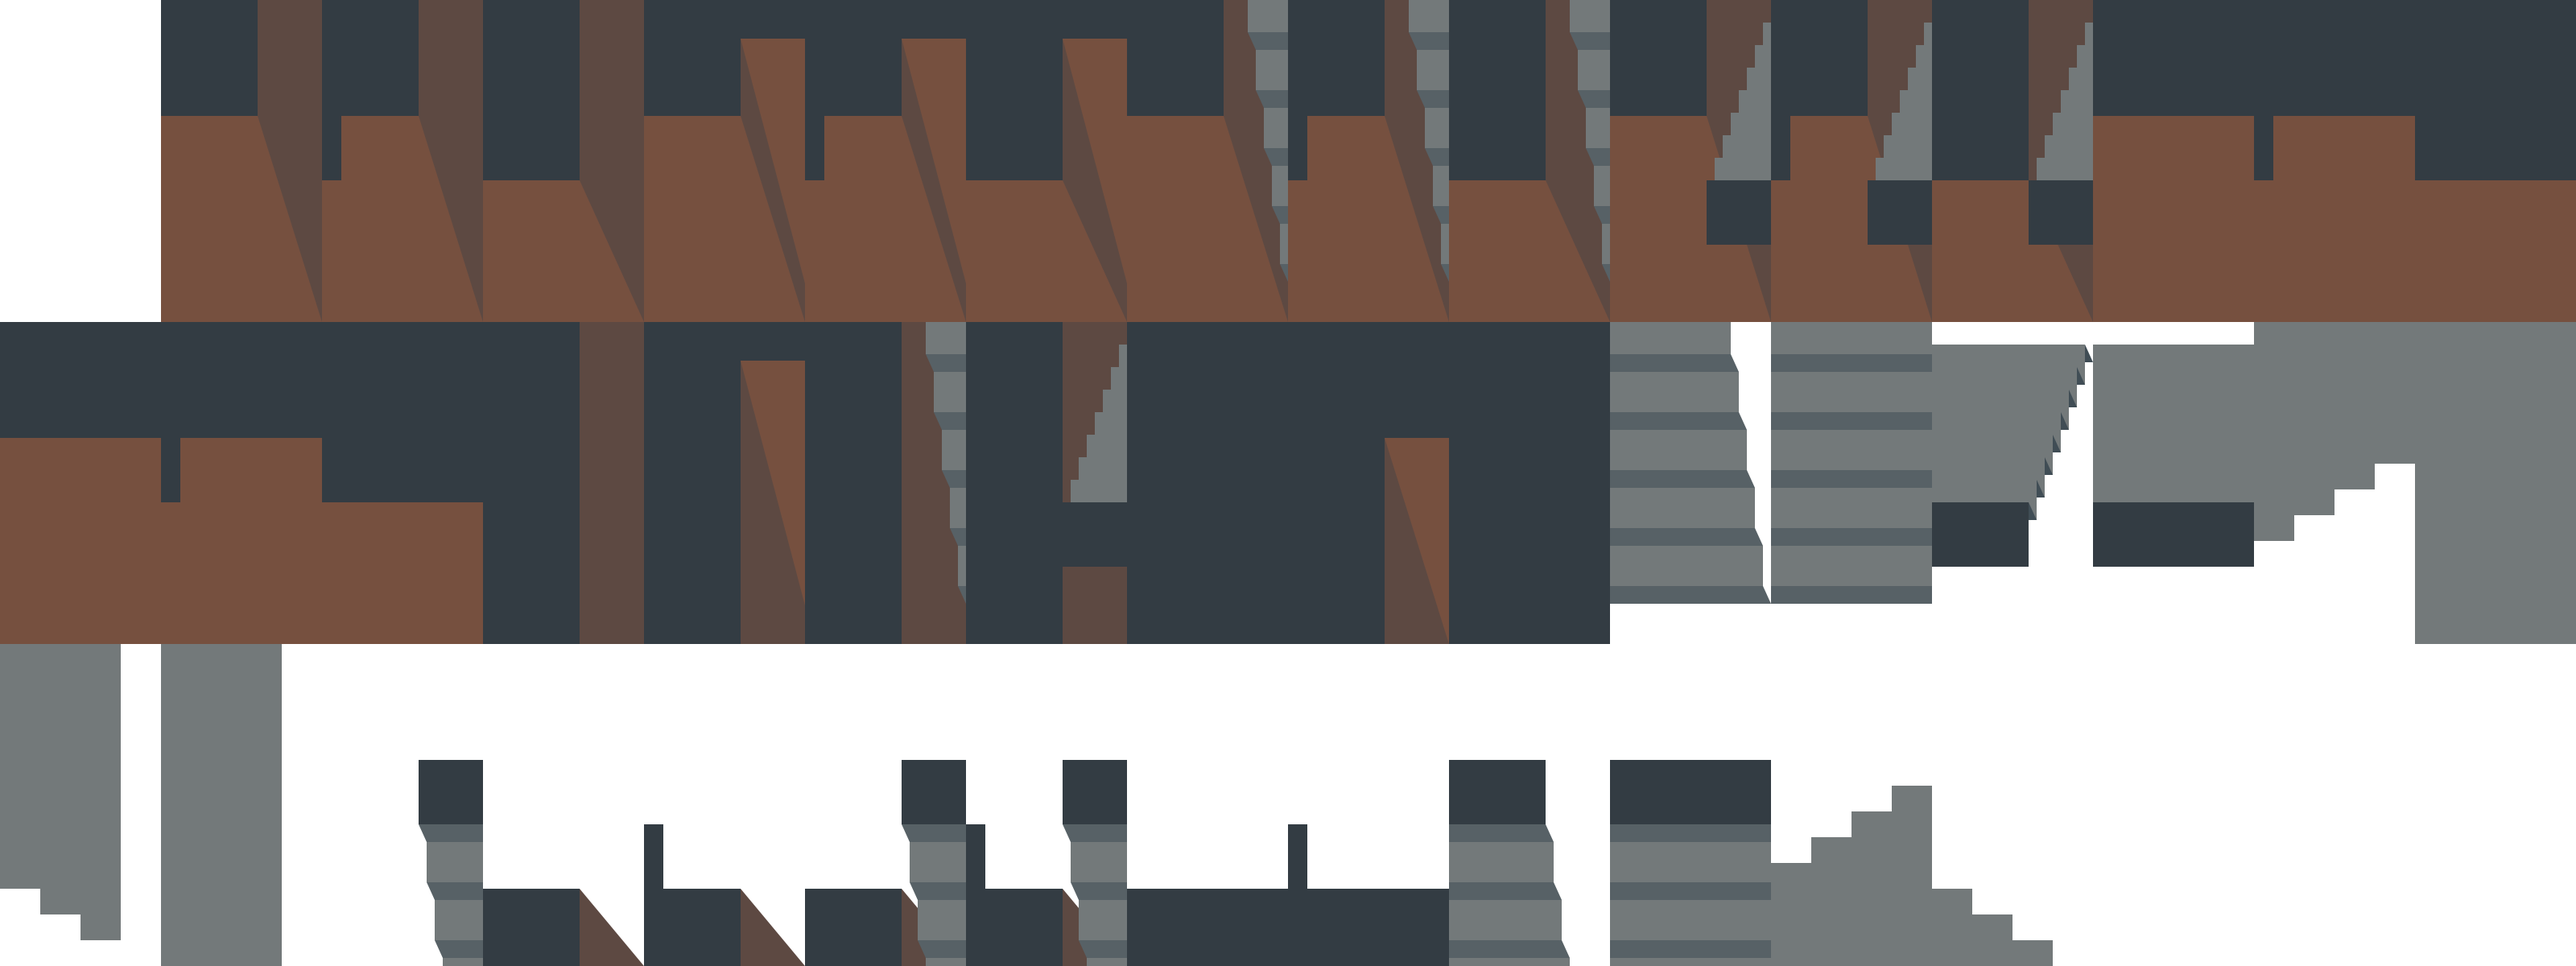
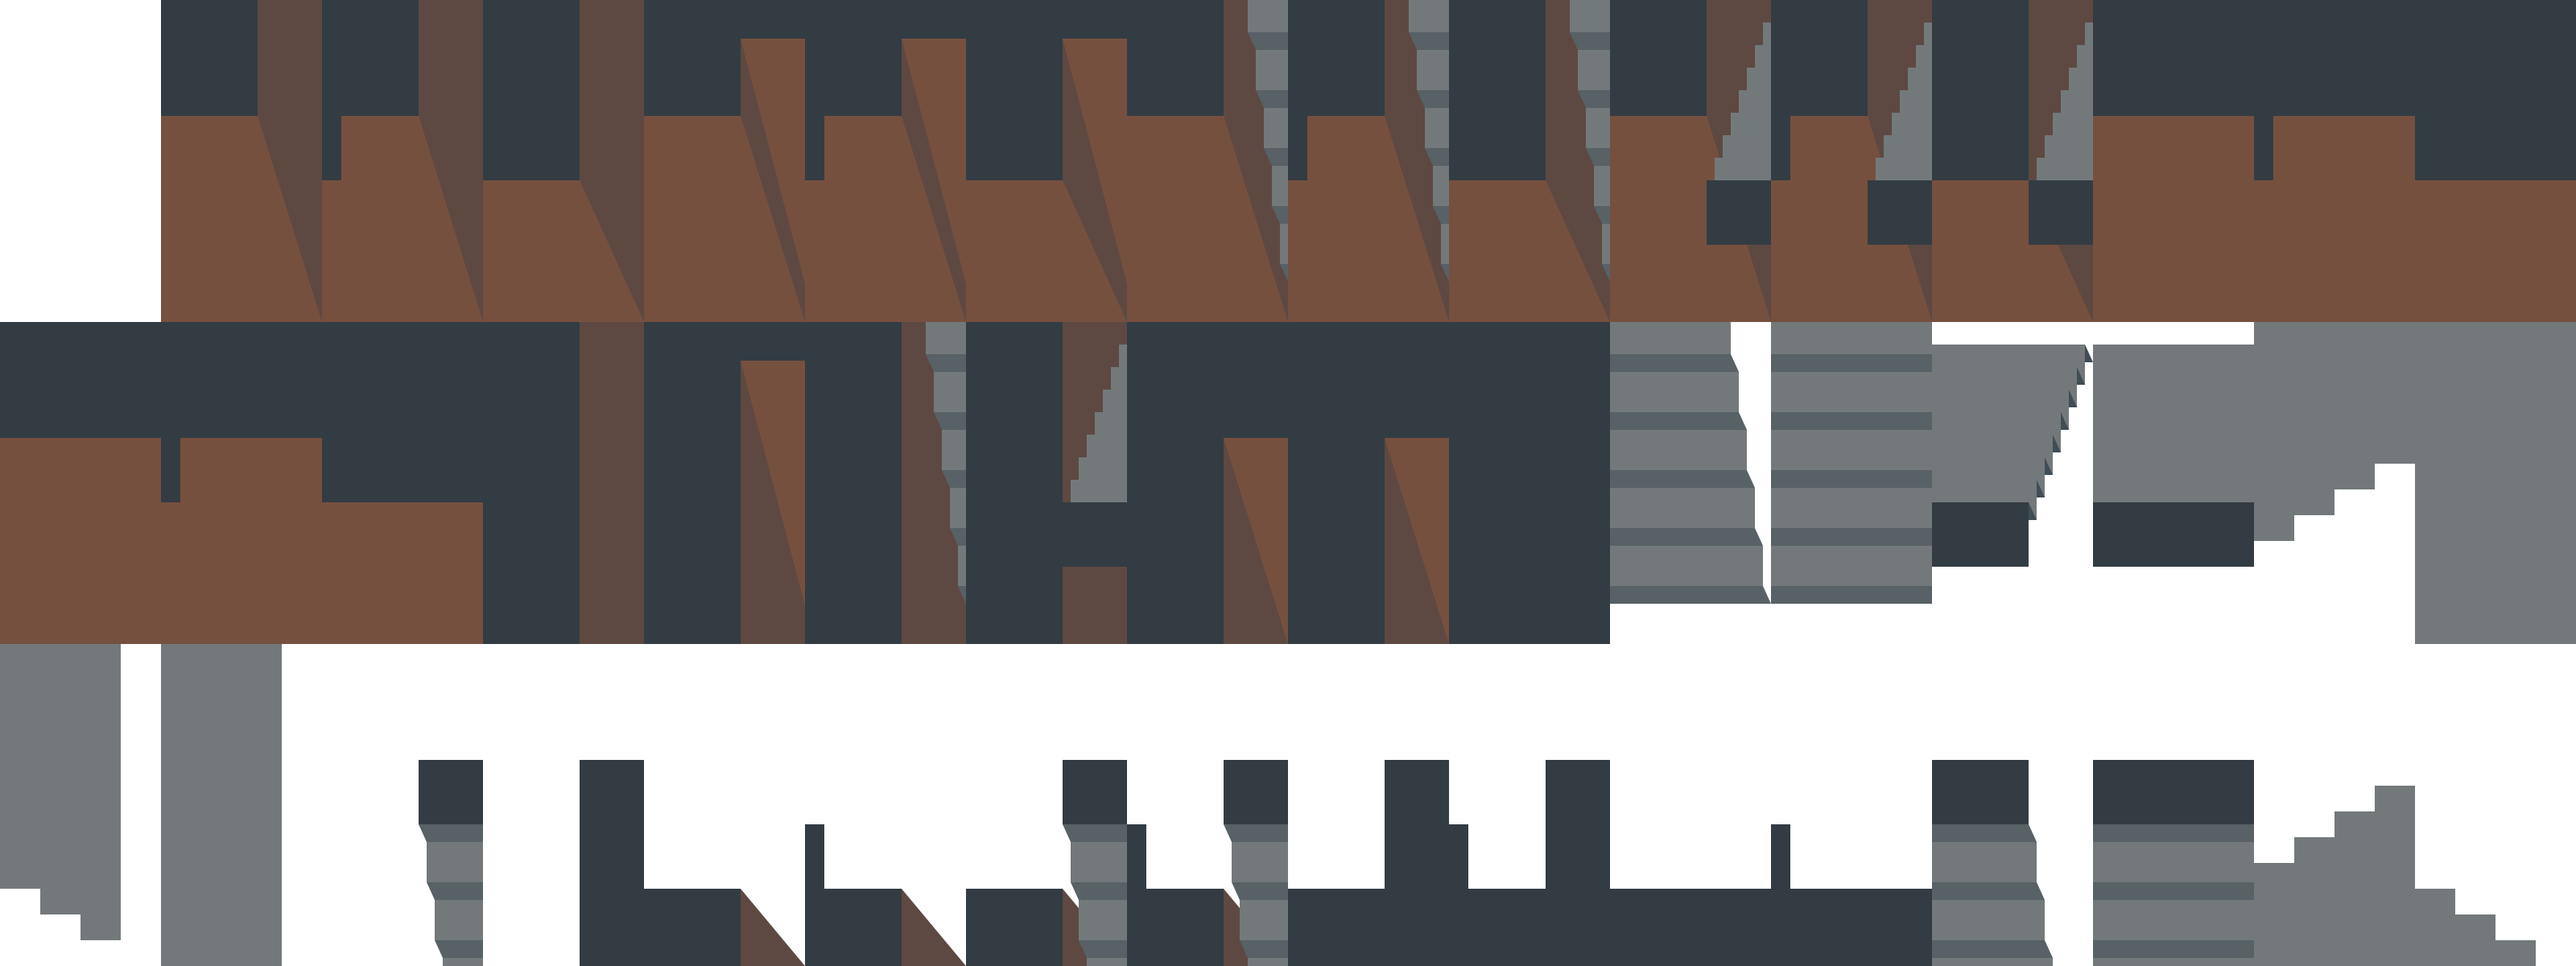
wip

diff --git a/wdn-enumerate/src/ids.rs b/wdn-enumerate/src/ids.rs
@@ -13,18 +13,6 @@ impl TileVariant {
 }
 
 impl MidSprite {
-    pub fn flip(&self) -> Self {
-        use MidSprite::*;
-
-        match self {
-            StairE => StairW,
-            StairEFull => StairWFull,
-            StairW => StairE,
-            StairWFull => StairEFull,
-            _ => *self,
-        }
-    }
-
     pub fn id(&self) -> u16 {
         use MidSprite::*;
 
@@ -78,18 +66,6 @@ impl MidSprite {
                 east: EastDecoration::StairS,
                 south: SouthDecoration::StairN,
             } => 12,
-            Corner {
-                east: EastDecoration::StairW,
-                south: SouthDecoration::None,
-            } => 13,
-            Corner {
-                east: EastDecoration::StairW,
-                south: SouthDecoration::Door,
-            } => 14,
-            Corner {
-                east: EastDecoration::StairW,
-                south: SouthDecoration::StairN,
-            } => 15,
             Horizontal {
                 south: SouthDecoration::None,
             } => 16,
@@ -111,9 +87,6 @@ impl MidSprite {
             Vertical {
                 east: EastDecoration::StairS,
             } => 22,
-            Vertical {
-                east: EastDecoration::StairW,
-            } => 23,
             InverseCorner => 24,
             Full => 25,
             StairN => 26,
@@ -149,32 +122,43 @@ impl TopSprite {
             Empty {
                 south_east: SouthEastTopDecoration::StairN,
             } => 34,
-            Corner {
-                south_east: SouthEastTopDecoration::None,
-                deco: TopDecoration::None,
+            Empty {
+                south_east: SouthEastTopDecoration::StairW,
             } => 35,
             Corner {
                 south_east: SouthEastTopDecoration::None,
-                deco: TopDecoration::Door,
+                deco: TopDecoration::None,
             } => 36,
             Corner {
-                south_east: SouthEastTopDecoration::StairN,
-                deco: TopDecoration::None,
+                south_east: SouthEastTopDecoration::None,
+                deco: TopDecoration::Door,
             } => 37,
             Corner {
                 south_east: SouthEastTopDecoration::StairN,
-                deco: TopDecoration::Door,
+                deco: TopDecoration::None,
             } => 38,
+            Corner {
+                south_east: SouthEastTopDecoration::StairN,
+                deco: TopDecoration::Door,
+            } => 39,
+            Corner {
+                south_east: SouthEastTopDecoration::StairW,
+                deco: TopDecoration::None,
+            } => 40,
+            Corner {
+                south_east: SouthEastTopDecoration::StairW,
+                deco: TopDecoration::Door,
+            } => 41,
             Horizontal {
                 deco: TopDecoration::None,
-            } => 39,
+            } => 42,
             Horizontal {
                 deco: TopDecoration::Door,
-            } => 40,
-            StairN => 41,
-            StairNFull => 42,
-            StairE => 43,
-            StairW => 44,
+            } => 43,
+            StairN => 44,
+            StairNFull => 45,
+            StairE => 46,
+            StairW => 47,
         }
     }
 }

diff --git a/wdn-enumerate/src/lib.rs b/wdn-enumerate/src/lib.rs
@@ -69,7 +69,6 @@ pub enum EastDecoration {
     Door,
     StairN,
     StairS,
-    StairW,
 }
 
 #[derive(Hash, Eq, PartialEq, Clone, Copy, Debug, PartialOrd, Ord)]
@@ -89,6 +88,7 @@ pub enum TopDecoration {
 pub enum SouthEastTopDecoration {
     None,
     StairN,
+    StairW,
 }
 
 impl TileVariant {
@@ -136,7 +136,7 @@ impl MidSprite {
         match center {
             TileVariant::Empty | TileVariant::DoorH | TileVariant::DoorV => MidSprite::Empty,
             TileVariant::Wall => {
-                let east_open = east != TileVariant::Wall;
+                let east_open = !matches!(east, TileVariant::Wall | TileVariant::StairW);
                 let south_open = south != TileVariant::Wall;
                 match (east_open, south_open) {
                     (true, true) => MidSprite::Corner {
@@ -149,7 +149,6 @@ impl MidSprite {
                     (true, false) => MidSprite::Vertical {
                         east: EastDecoration::from_open_tile(east),
                     },
-                    // south_east only distinguishes the two fully-walled cases
                     (false, false) if south_east == TileVariant::Wall => MidSprite::Full,
                     (false, false) => MidSprite::InverseCorner,
                 }
@@ -182,8 +181,7 @@ impl EastDecoration {
             TileVariant::DoorH => EastDecoration::Door,
             TileVariant::StairN => EastDecoration::StairN,
             TileVariant::StairS => EastDecoration::StairS,
-            TileVariant::StairW => EastDecoration::StairW,
-            TileVariant::Wall => {
+            TileVariant::Wall | TileVariant::StairW => {
                 unreachable!("east tile is known to be non-Wall")
             }
         }
@@ -256,6 +254,7 @@ impl SouthEastTopDecoration {
     fn from_open_tile(tile: TileVariant) -> Self {
         match tile {
             TileVariant::StairN => SouthEastTopDecoration::StairN,
+            TileVariant::StairW => SouthEastTopDecoration::StairW,
             _ => SouthEastTopDecoration::None,
         }
     }
@@ -291,7 +290,6 @@ impl fmt::Display for EastDecoration {
             EastDecoration::Door => write!(f, "_EastDoor"),
             EastDecoration::StairN => write!(f, "_EastStairN"),
             EastDecoration::StairS => write!(f, "_EastStairS"),
-            EastDecoration::StairW => write!(f, "_EastStairW"),
         }
     }
 }
@@ -336,6 +334,7 @@ impl fmt::Display for SouthEastTopDecoration {
         match self {
             SouthEastTopDecoration::None => write!(f, ""),
             SouthEastTopDecoration::StairN => write!(f, "_SouthEastStairN"),
+            SouthEastTopDecoration::StairW => write!(f, "_SouthEastStairW"),
         }
     }
 }

diff --git a/wdn-render/src/tile/wall.rs b/wdn-render/src/tile/wall.rs
@@ -7,12 +7,12 @@ use wdn_physics::tile::{
 
 pub fn mid_offsets(storage: &TileStorage, tile: TilePosition) -> (u16, u16) {
     let left = MidSprite::resolve(
-        get_tile_variant(storage, tile),
-        get_tile_variant(storage, tile.north()),
+        get_tile_variant(storage, tile).flip(),
+        get_tile_variant(storage, tile.north()).flip(),
         get_tile_variant(storage, tile.north().west()).flip(),
         get_tile_variant(storage, tile.west()).flip(),
         get_tile_variant(storage, tile.south().west()).flip(),
-        get_tile_variant(storage, tile.south()),
+        get_tile_variant(storage, tile.south()).flip(),
     );
     let right = MidSprite::resolve(
         get_tile_variant(storage, tile),
@@ -23,17 +23,17 @@ pub fn mid_offsets(storage: &TileStorage, tile: TilePosition) -> (u16, u16) {
         get_tile_variant(storage, tile.south()),
     );
 
-    (left.flip().id(), right.id())
+    (left.id(), right.id())
 }
 
 pub fn top_offset(storage: &TileStorage, tile: TilePosition) -> (u16, u16) {
     let left = TopSprite::resolve(
-        get_tile_variant(storage, tile),
-        get_tile_variant(storage, tile.north()),
+        get_tile_variant(storage, tile).flip(),
+        get_tile_variant(storage, tile.north()).flip(),
         get_tile_variant(storage, tile.north().west()).flip(),
         get_tile_variant(storage, tile.west()).flip(),
         get_tile_variant(storage, tile.south().west()).flip(),
-        get_tile_variant(storage, tile.south()),
+        get_tile_variant(storage, tile.south()).flip(),
     );
     let right = TopSprite::resolve(
         get_tile_variant(storage, tile),
@@ -44,7 +44,7 @@ pub fn top_offset(storage: &TileStorage, tile: TilePosition) -> (u16, u16) {
         get_tile_variant(storage, tile.south()),
     );
 
-    (left.flip().id(), right.id())
+    (left.id(), right.id())
 }
 
 fn get_tile_variant(storage: &TileStorage, tile: TilePosition) -> TileVariant {

diff --git a/wdn-physics/src/tile/material.rs b/wdn-physics/src/tile/material.rs
@@ -15,11 +15,11 @@ pub struct TileMaterial(TileMaterialFlags);
 bitflags::bitflags! {
     #[derive(Default, Debug, Clone, Copy, PartialEq, Eq, Hash)]
     pub struct TileMaterialFlags: u16 {
-        const ID_MASK = (1 << 10) - 1;
+        const ID_MASK = (1 << 9) - 1;
 
-        const GROUND_INSIDE_MASK = 0b1 << 10;
-        const GROUND_INSIDE = 0b1 << 10;
-        const GROUND_OUTSIDE = 0b0 << 10;
+        const GROUND_INSIDE_MASK = 0b1 << 9;
+        const GROUND_INSIDE = 0b1 << 9;
+        const GROUND_OUTSIDE = 0b0 << 9;
 
         const STAIR_DIRECTION_MASK = 0b11 << 10;
         const STAIR_DIRECTION_NORTH = 0b00 << 10;

diff --git a/wdn-enumerate/src/main.rs b/wdn-enumerate/src/main.rs
@@ -61,7 +61,7 @@ fn main() {
         //     );
         // }
 
-        println!("  {top} => {}", i + mids.len() - 1);
+        println!("  {top:?} => {},", i + mids.len() - 1);
     }
 
     println!("Unique sprites: {}", sprites.len());
